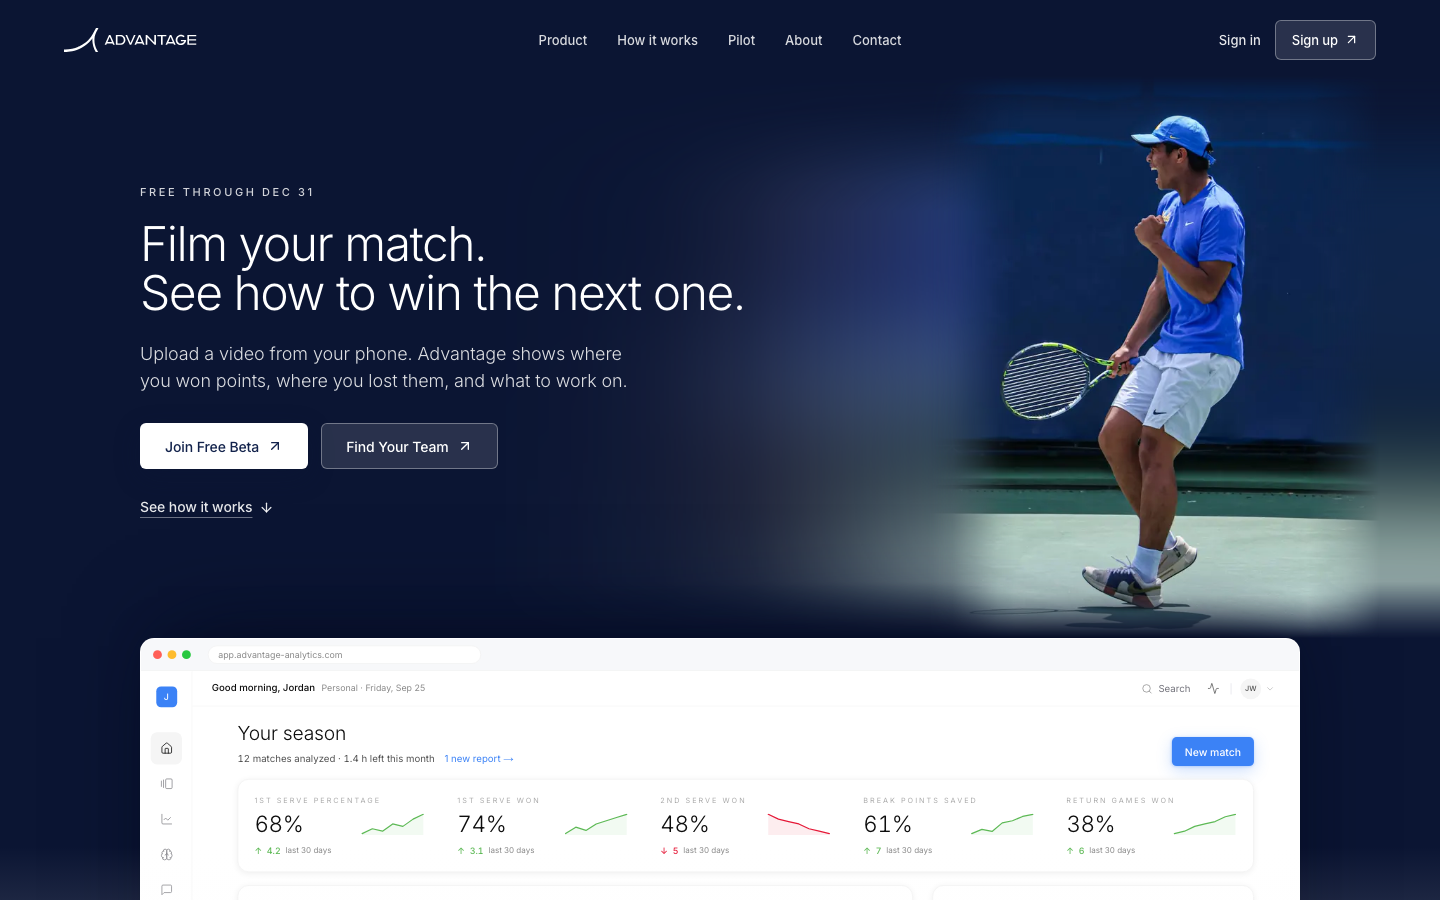
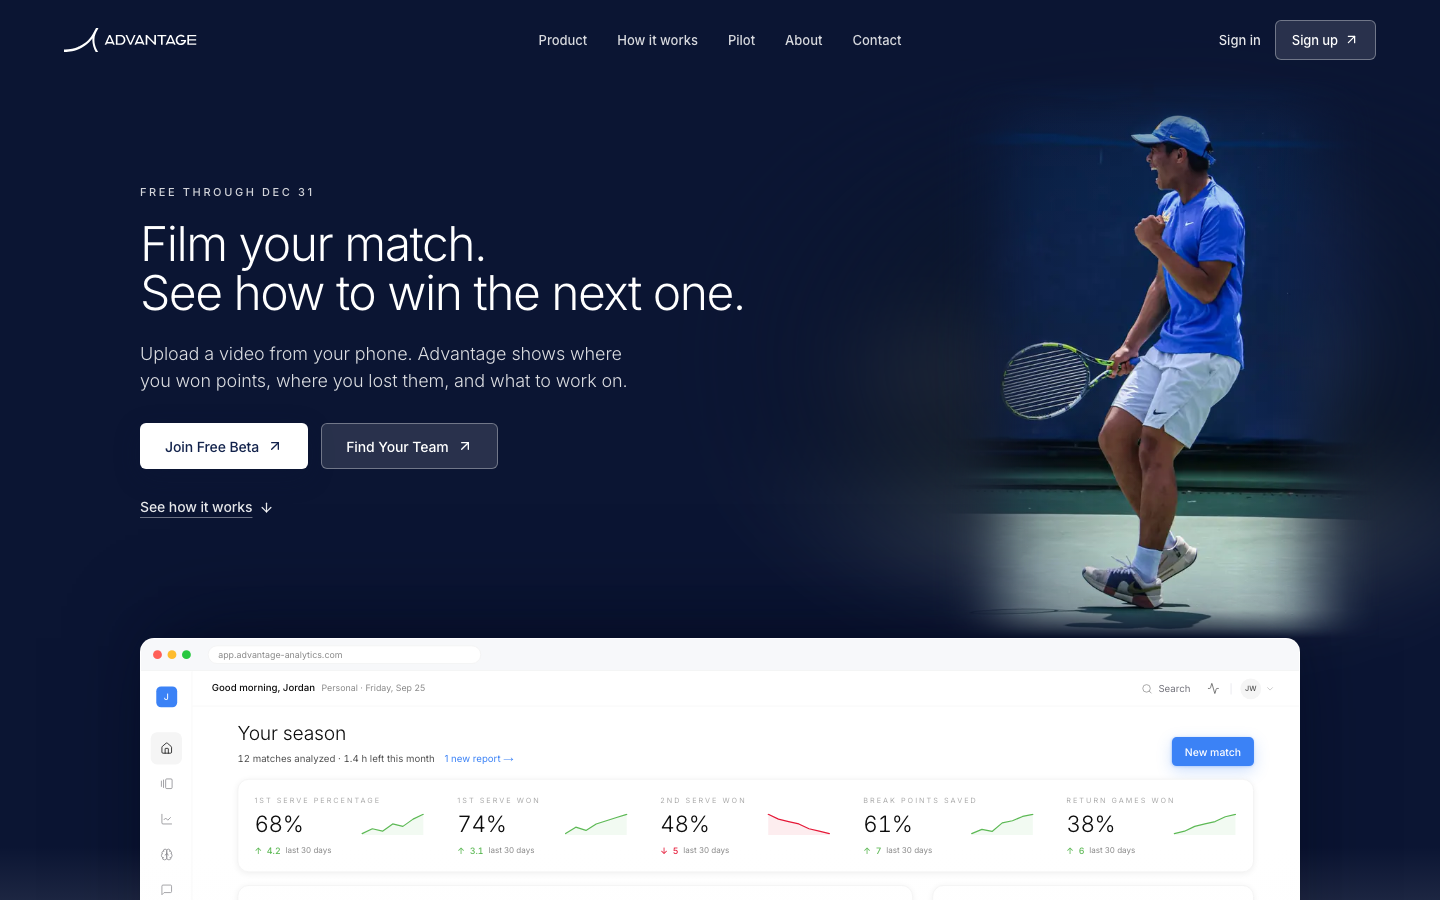
Soften the hero photo's fade further
Feather the photo's edges over wider eased ramps, add a navy vignette
inside the picture so the bright court and wall sink toward the backdrop
before the feather starts, and turn the blurred halo into one long
elliptical falloff that also runs down behind the screen.

diff --git a/src/app/perspective.css b/src/app/perspective.css
@@ -727,32 +727,45 @@ section.band.final-band { position: relative; overflow: hidden; padding: 130px 0
 .hh-more:hover { color: #fff; text-decoration-color: #fff; }
 
 /* The scene: the tier from just under the nav to the screen's top edge.
-   Two layers of the same photo. .hh-photo is the picture itself, whole, at
-   its own shape (aspect-ratio is set inline from the photo slot): its height
-   is the scene's and its width follows, so it is never cropped. .hh-ext is
-   the same picture stretched across the tier and heavily blurred, a soft
-   halo of the wall and the court around it. Both are masked on eased ramps:
-   the photo's edges melt into the halo, and the halo thins out to nothing
-   as it reaches the copy, so the picture fades into the navy the type sits
-   on instead of stopping at an edge. */
+   .hh-figure is the photo's box, whole, at its own shape (aspect-ratio is
+   set inline from the photo slot): its height is the scene's and its width
+   follows, so the picture is never cropped. Inside it sit two layers of the
+   same photo.
+   .hh-photo is the picture. Its edges are feathered wide, on eased ramps.
+   .hh-ext is the picture again, heavily blurred, in a box much larger than
+   the figure (it runs out past every side, and down behind the screen). It
+   is masked with one long elliptical falloff centred on the picture, so it
+   is a glow of the wall and the court that is strongest behind the player
+   and gone well before the copy. The picture feathers into the glow, and
+   the glow into the navy: there is no edge at either step. */
 .hh-top { position: relative; }
 .hh-scene { position: absolute; z-index: 0; left: 0; right: 0; top: 76px; bottom: var(--hh-lap); pointer-events: none; }
-.hh-ext { position: absolute; inset: 0; overflow: hidden;
-  /* --hh-fade: the halo's horizontal ramp, clear on the copy side. */
-  --hh-fade: linear-gradient(to right, transparent 34%, rgba(0,0,0,.03) 40%, rgba(0,0,0,.1) 46%, rgba(0,0,0,.24) 52%,
-    rgba(0,0,0,.45) 58%, rgba(0,0,0,.68) 64%, rgba(0,0,0,.88) 70%, #000 76%);
-  --m: var(--hh-fade),
-       linear-gradient(to bottom, transparent 0%, rgba(0,0,0,.12) 6%, rgba(0,0,0,.45) 12%, rgba(0,0,0,.85) 19%, #000 24%, #000 90%, transparent 100%);
-  -webkit-mask-image: var(--m); mask-image: var(--m);
-  -webkit-mask-composite: source-in; mask-composite: intersect; }
-.hh-ext img { object-fit: fill; filter: blur(56px) saturate(.9); scale: 1.24 1; }
-.hh-photo { position: absolute; z-index: 1; top: 0; bottom: 0; right: max(0px, calc(var(--hh-gutter) - 80px));
-  --m: linear-gradient(to right, transparent 0%, rgba(0,0,0,.1) 5%, rgba(0,0,0,.42) 10%, rgba(0,0,0,.82) 15%, #000 19%,
-         #000 84%, rgba(0,0,0,.6) 92%, transparent 100%),
-       linear-gradient(to bottom, transparent 0%, rgba(0,0,0,.5) 4%, #000 8%, #000 92%, transparent 100%);
+.hh-figure { position: absolute; top: 0; bottom: 0; right: max(0px, calc(var(--hh-gutter) - 80px)); }
+/* 220% × 142% of the figure; the figure's centre is at 50% 43.7% of it. */
+.hh-ext { position: absolute; inset: -12% -60% -30% -60%;
+  --m: radial-gradient(ellipse 50% 43.7% at 50% 43.7%, #000 0%, rgba(0,0,0,.94) 22%, rgba(0,0,0,.8) 36%, rgba(0,0,0,.6) 49%,
+    rgba(0,0,0,.4) 61%, rgba(0,0,0,.23) 72%, rgba(0,0,0,.11) 82%, rgba(0,0,0,.04) 91%, transparent 100%);
+  -webkit-mask-image: var(--m); mask-image: var(--m); }
+/* The blurred picture keeps the figure's top and height, so the wall and the
+   court sit at the heights they have in the photo; it is only stretched
+   sideways, which a blur this heavy hides. */
+.hh-ext-img { position: absolute; left: 0; right: 0; top: 8.45%; height: 70.42%; filter: blur(48px) saturate(.8) brightness(.6); }
+.hh-ext-img img { object-fit: fill; }
+.hh-photo { position: absolute; inset: 0;
+  --m: linear-gradient(to right, transparent 0%, rgba(0,0,0,.05) 4%, rgba(0,0,0,.18) 8%, rgba(0,0,0,.4) 12%, rgba(0,0,0,.66) 16%,
+         rgba(0,0,0,.88) 20%, #000 25%, #000 76%, rgba(0,0,0,.85) 81%, rgba(0,0,0,.55) 87%, rgba(0,0,0,.22) 93%, transparent 100%),
+       linear-gradient(to bottom, transparent 0%, rgba(0,0,0,.3) 3%, rgba(0,0,0,.75) 6%, #000 9%, #000 95%, rgba(0,0,0,.5) 98%, transparent 100%);
   -webkit-mask-image: var(--m); mask-image: var(--m);
   -webkit-mask-composite: source-in; mask-composite: intersect; }
 .hh-photo img { object-fit: cover; }
+/* A navy vignette inside the picture, under the mask: the bright court and
+   wall are already sinking toward the backdrop's tone where the feather
+   starts, so the fade has far less contrast to cross. */
+.hh-photo::after { content: ""; position: absolute; inset: 0;
+  background:
+    linear-gradient(to right, rgba(11,21,51,.82) 0%, rgba(11,21,51,.62) 9%, rgba(11,21,51,.38) 19%, rgba(11,21,51,.17) 30%, rgba(11,21,51,.05) 40%, rgba(11,21,51,0) 48%),
+    linear-gradient(to left, rgba(11,21,51,.8) 0%, rgba(11,21,51,.5) 9%, rgba(11,21,51,.2) 20%, rgba(11,21,51,0) 32%),
+    linear-gradient(to bottom, rgba(11,21,51,.7) 0%, rgba(11,21,51,.34) 9%, rgba(11,21,51,.1) 18%, rgba(11,21,51,0) 26%); }
 
 /* The computer screen: the dashboard Home's 1440 artboard under a browser
    bar, scaled to the container by useScaleToFit and cut off partway down.
@@ -789,8 +802,7 @@ section.band.final-band { position: relative; overflow: hidden; padding: 130px 0
   .hh-copy { gap: 18px; }
   .hh-title { font-size: 44px; }
   .hh-scene { position: relative; top: auto; bottom: auto; margin-top: 8px; }
-  .hh-ext { --hh-fade: linear-gradient(to right, transparent 0%, rgba(0,0,0,.12) 12%, rgba(0,0,0,.5) 26%, #000 44%); }
-  .hh-photo { position: relative; top: auto; right: auto; bottom: auto; width: min(78%, 380px); margin-left: auto; }
+  .hh-figure { position: relative; right: auto; width: min(78%, 380px); margin-left: auto; }
   .hh-screen { width: 150%; border-radius: 12px 12px 0 0; }
   .hh::after { height: clamp(150px, 40vw, 300px); }
 }

diff --git a/src/components/perspective/hero.tsx b/src/components/perspective/hero.tsx
@@ -135,13 +135,18 @@ export function PerspectiveHero() {
           </div>
         </div>
         <div className="hh-scene">
-          {/* The same photo again, stretched and blurred: a soft halo of the
-              wall and the court that fades out before it reaches the copy. */}
-          <div className="hh-ext" aria-hidden="true">
-            <Image src={HERO_PHOTO.src} alt="" fill sizes="320px" />
-          </div>
-          <div className="hh-photo" style={{ aspectRatio: HERO_PHOTO.ratio }}>
-            <Image src={HERO_PHOTO.src} alt={HERO_PHOTO.alt} fill preload sizes="(max-width: 1023px) 80vw, 480px" placeholder="blur" />
+          <div className="hh-figure" style={{ aspectRatio: HERO_PHOTO.ratio }}>
+            {/* The same photo again, blurred: a soft halo of the wall and the
+                court, wider than the picture, that the picture's edges melt
+                into and that itself thins out to nothing. */}
+            <div className="hh-ext" aria-hidden="true">
+              <div className="hh-ext-img">
+                <Image src={HERO_PHOTO.src} alt="" fill sizes="320px" />
+              </div>
+            </div>
+            <div className="hh-photo">
+              <Image src={HERO_PHOTO.src} alt={HERO_PHOTO.alt} fill preload sizes="(max-width: 1023px) 80vw, 480px" placeholder="blur" />
+            </div>
           </div>
         </div>
       </div>
